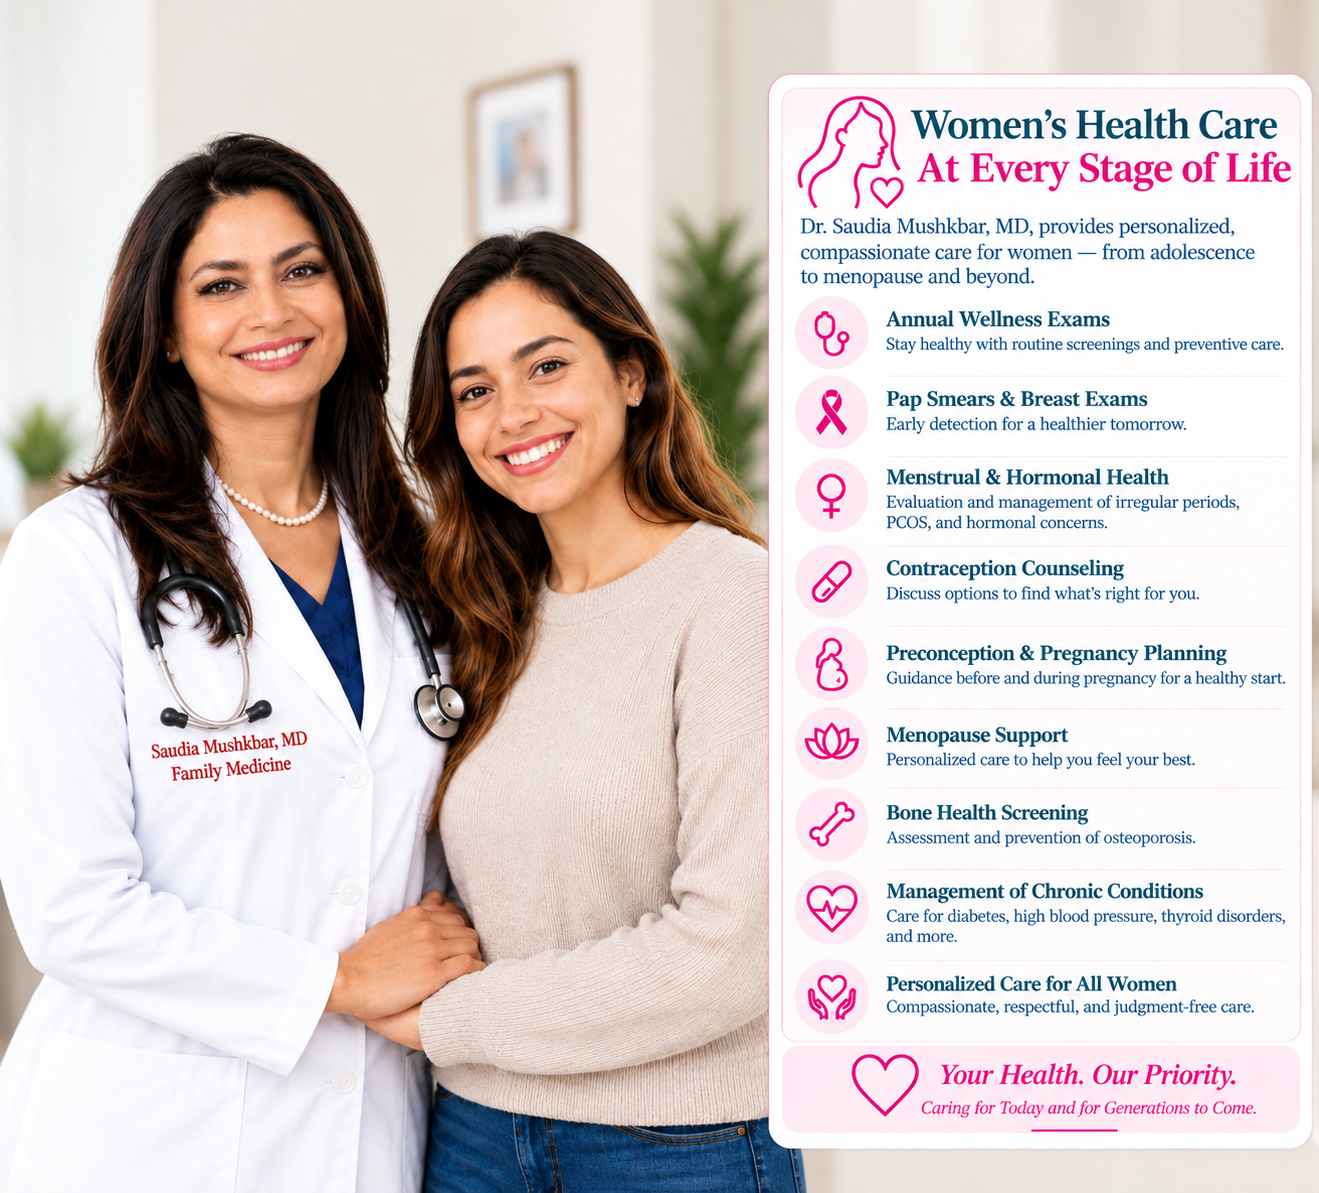
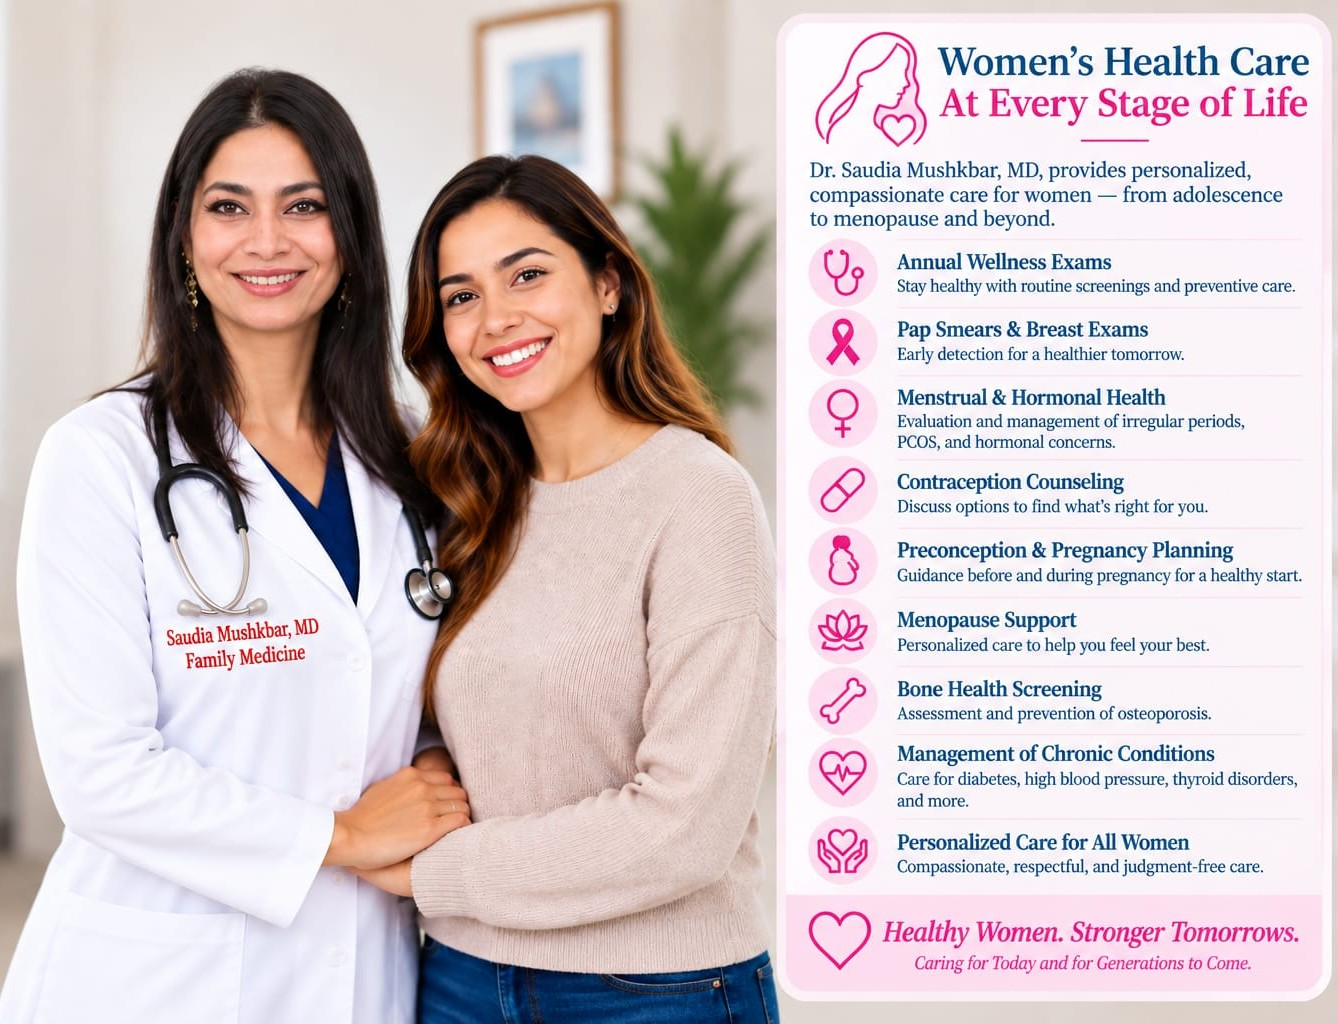
Add a Book Online page and put its button on every page
Online scheduling is not connected yet, so /book-online is a placeholder
that says so and points people to the phone. It is noindex and stays out
of the sitemap until a provider is live; the comments on the page and in
the CTA constants say how to reverse both.

The button sits in the header, the drawer, the footer and the body CTA of
every page, so it is reachable at widths where the header only has room
for Call and Menu.

Contact & Directions is dropped as a button everywhere in favour of the
Call + Book Online pair. Directions are still reachable from the Contact
nav item, the footer Pages column and the footer address block.

diff --git a/app/book-online/page.tsx b/app/book-online/page.tsx
@@ -1,0 +1,100 @@
+import type { Metadata } from "next";
+import { CalendarClock, Phone } from "lucide-react";
+
+import { Container } from "@/components/common/Container";
+import { Breadcrumbs } from "@/components/common/Breadcrumbs";
+import { JsonLd } from "@/components/common/JsonLd";
+import { Button } from "@/components/ui/button";
+import { FinalCTA } from "@/components/sections/FinalCTA";
+import { CONTACT, CTA } from "@/lib/constants";
+import { pageMetadata } from "@/lib/seo";
+import { breadcrumbList, webPage } from "@/lib/structured-data";
+
+const title = "Book Online — Coming Soon";
+const description =
+  "Online appointment booking with Dr. Saudia Mushkbar, MD is coming soon. In the meantime, call 419-517-7687 to schedule your visit.";
+const path = "/book-online";
+
+/**
+ * Placeholder for online scheduling.
+ *
+ * Deliberately `noIndex`: there is nothing here for a searcher yet, and an
+ * indexed "coming soon" page competes with the real contact page. It stays out
+ * of the sitemap for the same reason. Remove `noIndex` and add the route to
+ * `allRoutes` once a booking provider is connected.
+ */
+export const metadata: Metadata = pageMetadata({
+  title,
+  description,
+  path,
+  noIndex: true,
+});
+
+const crumbs = [
+  { name: "Home", path: "/" },
+  { name: "Book Online", path },
+];
+
+export default function BookOnlinePage() {
+  return (
+    <>
+      <JsonLd
+        data={[
+          webPage({ path, name: title, description }),
+          breadcrumbList(crumbs),
+        ]}
+      />
+
+      <section className="bg-gradient-to-b from-cream to-canvas pb-16 pt-10 lg:pb-20 lg:pt-14">
+        <Container width="narrow">
+          <Breadcrumbs items={crumbs} />
+
+          <div className="mt-12 flex flex-col items-center text-center">
+            <span className="grid size-16 place-items-center rounded-full bg-accent-soft text-brand">
+              <CalendarClock className="size-8" aria-hidden="true" />
+            </span>
+
+            <p className="mt-7 font-mono text-eyebrow uppercase tracking-[0.14em] text-brand-500">
+              Online booking
+            </p>
+
+            <h1 className="mt-4 text-display-hero">
+              <span className="block">Online Appointment</span>{" "}
+              <span className="block text-alert">Booking Coming Soon</span>
+            </h1>
+
+            <span aria-hidden="true" className="mt-7 block h-0.5 w-16 bg-accent" />
+
+            <p className="mt-7 max-w-prose text-lg leading-relaxed text-body">
+              We are getting online scheduling ready. Until it goes live, the
+              fastest way to book is to call the office — our team can confirm
+              your insurance plan and find you the soonest opening, including
+              same-day and same-week appointments.
+            </p>
+
+            <div className="mt-10 flex w-full flex-col gap-3 sm:w-auto sm:flex-row">
+              <Button asChild variant="alert" size="lg">
+                <a href={CTA.callHref}>
+                  <Phone className="size-4" aria-hidden="true" />
+                  {CTA.callLabel}
+                </a>
+              </Button>
+            </div>
+
+            <p className="mt-6 text-sm text-body">
+              Prefer to plan ahead? Call {CONTACT.phoneDisplay} and we will book
+              you in.
+            </p>
+          </div>
+        </Container>
+      </section>
+
+      <FinalCTA
+        showBook={false}
+        title="Ready to Book?"
+        description="Our office can confirm your insurance plan and find the soonest opening."
+        note="Same-Day & Same-Week Appointments Available"
+      />
+    </>
+  );
+}

diff --git a/components/sections/FinalCTA.tsx b/components/sections/FinalCTA.tsx
@@ -1,5 +1,5 @@
 import Link from "next/link";
-import { MapPin, Phone } from "lucide-react";
+import { CalendarCheck, Phone } from "lucide-react";
 
 import { Container } from "@/components/common/Container";
 import { Button } from "@/components/ui/button";
@@ -9,10 +9,13 @@ export function FinalCTA({
   title = "Looking for a Family Doctor in Toledo?",
   description = "Dr. Saudia Mushkbar is welcoming new patients.",
   note = "Same-Day & Same-Week Appointments Available",
+  /** Off on the booking page itself, where the button would link to itself. */
+  showBook = true,
 }: {
   title?: string;
   description?: string;
   note?: string;
+  showBook?: boolean;
 }) {
   return (
     <section className="relative overflow-hidden bg-brand py-20 text-white lg:py-24">
@@ -36,12 +39,14 @@ export function FinalCTA({
                 {CTA.callLabel}
               </a>
             </Button>
-            <Button asChild variant="outline-light" size="lg">
-              <Link href={CTA.contactHref}>
-                <MapPin className="size-4" aria-hidden="true" />
-                {CTA.contactLabel}
-              </Link>
-            </Button>
+            {showBook ? (
+              <Button asChild variant="outline-light" size="lg">
+                <Link href={CTA.bookHref}>
+                  <CalendarCheck className="size-4" aria-hidden="true" />
+                  {CTA.bookLabel}
+                </Link>
+              </Button>
+            ) : null}
           </div>
         </div>
       </Container>

diff --git a/lib/constants.ts b/lib/constants.ts
@@ -88,12 +88,17 @@ export const ANALYTICS = {
 
 /**
  * Appointments are booked by phone, as they were on the original site, so the
- * primary call to action dials the office directly. The secondary action goes
- * to the contact page for the address, hours and directions.
+ * primary call to action dials the office directly. Directions and the address
+ * are reached from the nav and the footer rather than a button.
  */
 export const CTA = {
   callHref: CONTACT.phoneHref,
   callLabel: `Call ${CONTACT.phoneDisplay}`,
-  contactHref: "/contact",
-  contactLabel: "Contact & Directions",
+  /**
+   * Online scheduling is not live yet. The button is present on every page and
+   * leads to a placeholder that says so and points people to the phone, so the
+   * path is already in place for when a booking provider is connected.
+   */
+  bookHref: "/book-online",
+  bookLabel: "Book Online",
 } as const;

diff --git a/components/layout/MobileNavigation.tsx b/components/layout/MobileNavigation.tsx
@@ -3,7 +3,7 @@
 import * as React from "react";
 import Link from "next/link";
 import { usePathname } from "next/navigation";
-import { Menu, MapPin, Phone } from "lucide-react";
+import { CalendarCheck, MapPin, Menu, Phone } from "lucide-react";
 
 import {
   Sheet,
@@ -110,10 +110,10 @@ export function MobileNavigation() {
                   {CTA.callLabel}
                 </a>
               </Button>
-              <Button asChild variant="outline" size="md">
-                <Link href={CTA.contactHref}>
-                  <MapPin className="size-4" aria-hidden="true" />
-                  {CTA.contactLabel}
+              <Button asChild variant="brand" size="md">
+                <Link href={CTA.bookHref}>
+                  <CalendarCheck className="size-4" aria-hidden="true" />
+                  {CTA.bookLabel}
                 </Link>
               </Button>
             </div>

diff --git a/components/sections/PageHero.tsx b/components/sections/PageHero.tsx
@@ -1,6 +1,6 @@
 import Image from "next/image";
 import Link from "next/link";
-import { MapPin, Phone } from "lucide-react";
+import { CalendarCheck, Phone } from "lucide-react";
 
 import { Breadcrumbs, type Crumb } from "@/components/common/Breadcrumbs";
 import { Container } from "@/components/common/Container";
@@ -62,9 +62,9 @@ export function PageHero({
                   </a>
                 </Button>
                 <Button asChild variant="brand" size="lg">
-                  <Link href={CTA.contactHref}>
-                    <MapPin className="size-4" aria-hidden="true" />
-                    {CTA.contactLabel}
+                  <Link href={CTA.bookHref}>
+                    <CalendarCheck className="size-4" aria-hidden="true" />
+                    {CTA.bookLabel}
                   </Link>
                 </Button>
               </div>

diff --git a/components/landing/LandingHero.tsx b/components/landing/LandingHero.tsx
@@ -1,6 +1,6 @@
 import Image from "next/image";
 import Link from "next/link";
-import { Check, MapPin, Phone } from "lucide-react";
+import { CalendarCheck, Check, Phone } from "lucide-react";
 
 import { Breadcrumbs, type Crumb } from "@/components/common/Breadcrumbs";
 import { Container } from "@/components/common/Container";
@@ -139,9 +139,9 @@ export function LandingHero({
                 </a>
               </Button>
               <Button asChild variant="brand" size="lg">
-                <Link href={CTA.contactHref}>
-                  <MapPin className="size-4" aria-hidden="true" />
-                  {CTA.contactLabel}
+                <Link href={CTA.bookHref}>
+                  <CalendarCheck className="size-4" aria-hidden="true" />
+                  {CTA.bookLabel}
                 </Link>
               </Button>
             </div>

diff --git a/components/sections/BookingProcess.tsx b/components/sections/BookingProcess.tsx
@@ -1,5 +1,5 @@
 import Link from "next/link";
-import { MapPin, Phone } from "lucide-react";
+import { CalendarCheck, Phone } from "lucide-react";
 
 import { Container } from "@/components/common/Container";
 import { SectionHeading } from "@/components/common/SectionHeading";
@@ -47,9 +47,9 @@ export function BookingProcess() {
             </a>
           </Button>
           <Button asChild variant="brand" size="lg">
-            <Link href={CTA.contactHref}>
-              <MapPin className="size-4" aria-hidden="true" />
-              {CTA.contactLabel}
+            <Link href={CTA.bookHref}>
+              <CalendarCheck className="size-4" aria-hidden="true" />
+              {CTA.bookLabel}
             </Link>
           </Button>
         </div>

diff --git a/components/layout/Header.tsx b/components/layout/Header.tsx
@@ -1,5 +1,5 @@
 import Link from "next/link";
-import { MapPin, Phone } from "lucide-react";
+import { CalendarCheck, Phone } from "lucide-react";
 
 import { Container } from "@/components/common/Container";
 import { Button } from "@/components/ui/button";
@@ -41,9 +41,9 @@ export function Header() {
           </Button>
 
           <Button asChild variant="brand" size="sm" className="hidden sm:inline-flex">
-            <Link href={CTA.contactHref}>
-              <MapPin className="size-4" aria-hidden="true" />
-              {CTA.contactLabel}
+            <Link href={CTA.bookHref}>
+              <CalendarCheck className="size-4" aria-hidden="true" />
+              {CTA.bookLabel}
             </Link>
           </Button>
 

diff --git a/components/sections/Hero.tsx b/components/sections/Hero.tsx
@@ -98,9 +98,9 @@ export function Hero() {
 
             <div className="mt-9 flex flex-col gap-3 sm:flex-row">
               <Button asChild variant="brand" size="lg">
-                <Link href={CTA.contactHref}>
+                <Link href={CTA.bookHref}>
                   <CalendarCheck className="size-4" aria-hidden="true" />
-                  Schedule a Visit
+                  {CTA.bookLabel}
                 </Link>
               </Button>
               <Button asChild variant="alert" size="lg">

diff --git a/components/layout/Footer.tsx b/components/layout/Footer.tsx
@@ -144,8 +144,8 @@ export function Footer() {
               <Button asChild variant="alert" size="md">
                 <a href={CTA.callHref}>{CTA.callLabel}</a>
               </Button>
-              <Button asChild variant="outline-light" size="md">
-                <Link href={CTA.contactHref}>{CTA.contactLabel}</Link>
+              <Button asChild variant="primary" size="md">
+                <Link href={CTA.bookHref}>{CTA.bookLabel}</Link>
               </Button>
             </div>
 
